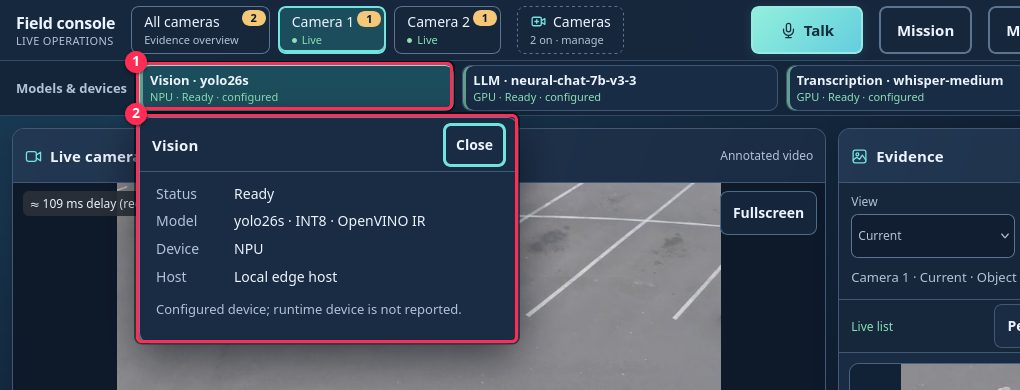
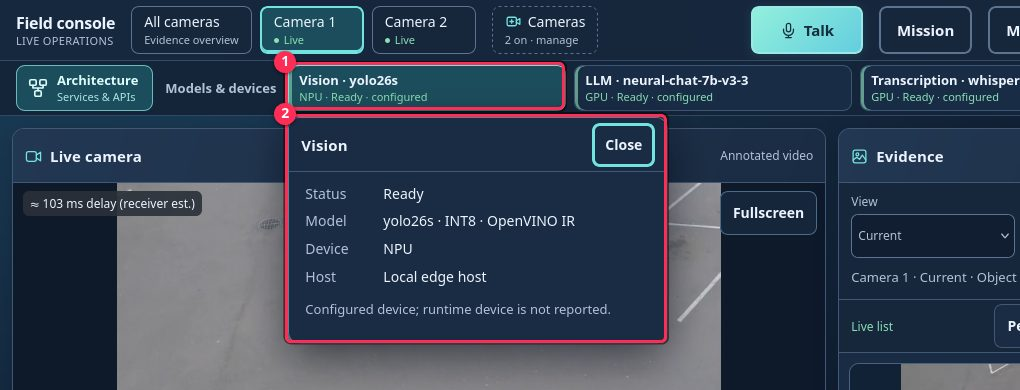
Retake screenshots for the moved Architecture button and camera scope

diff --git a/handheld-multi-modal/docs/OPERATOR_GUIDE.md b/handheld-multi-modal/docs/OPERATOR_GUIDE.md
@@ -69,8 +69,8 @@ kiosk mode) on the handheld.
 7. **Models & devices** — each model with its device and status (Vision on
    NPU, LLM and Transcription on GPU, Speech on CPU). Click one for details.
    Transcription uses whisper-medium with FP16 weights; Speech uses the voice Miles.
-   **Architecture** at the left end opens the architecture page (below) in a new
-   tab, so live video keeps running; **Back to app** closes that tab.
+8. **Architecture** — opens the architecture page (below) in a new tab, so live
+   video keeps running; **Back to app** closes that tab.
 
 ### Architecture page
 
